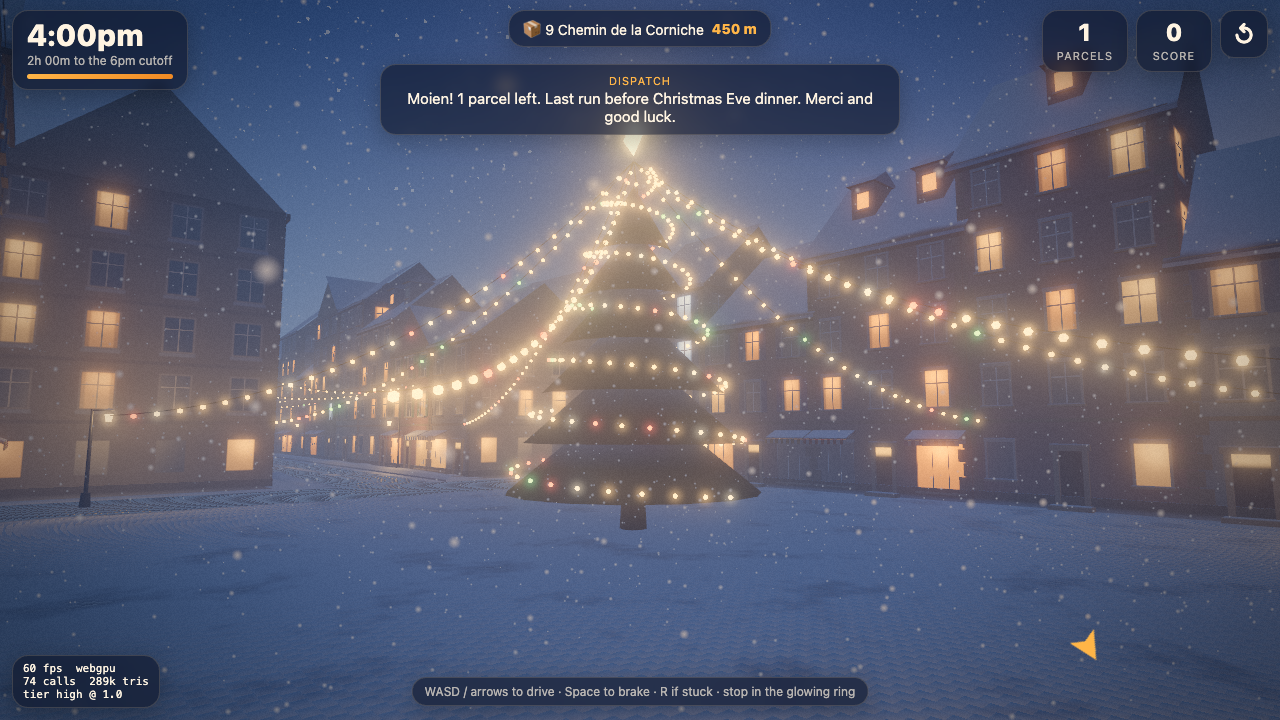
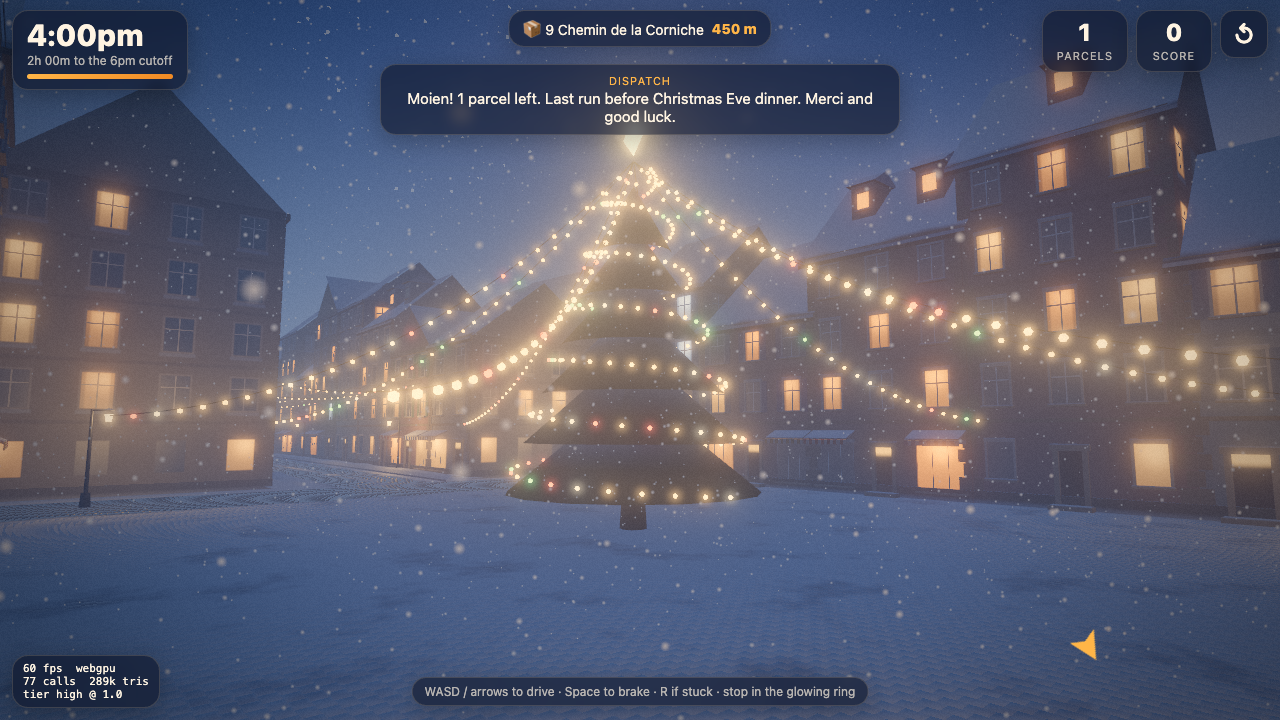
fix: Hôtel de Ville without the invented portico; Gare built as pavilions, wings, arched hall and stone clock tower; bigger Ferris wheel

diff --git a/src/world/landmarks.ts b/src/world/landmarks.ts
@@ -10,7 +10,7 @@ import { box, wallBuilders, wallMeshes } from './buildings';
 import type { Landmark } from './town';
 import { U, fogFactor, lampLight } from '../render/materials';
 import { buildTree } from './props';
-import { landmarkBuildings, lm } from './landmarkBlocks';
+import { GARE_TOWER, landmarkBuildings, lm } from './landmarkBlocks';
 
 type N = any;
 type Rgb = [number, number, number];
@@ -18,8 +18,6 @@ type Rgb = [number, number, number];
 const SANDSTONE: Rgb = [0.66, 0.56, 0.4];
 const GREY_STONE: Rgb = [0.6, 0.58, 0.54];
 const PALE: Rgb = [0.72, 0.62, 0.46];
-/** Floodlit stone reads much brighter than the walls around it, so the tower is darker. */
-const TOWER: Rgb = [0.5, 0.42, 0.3];
 const CREAM: Rgb = [0.9, 0.86, 0.74];
 const SLATE: Rgb = [0.09, 0.095, 0.11];
 const COPPER: Rgb = [0.16, 0.36, 0.3];
@@ -162,30 +160,19 @@ export function buildLandmarkExtras(): THREE.Group {
     }
   }
 
-  // --- Hôtel de Ville: wide front staircase up to a columned portico, two green bronze lions, chimneys, lanterns.
+  // --- Hôtel de Ville: wide front steps, two green bronze lions, roof balustrade and flag, chimneys, lanterns.
   {
     const l = lm('hotelDeVille');
     const { P, M } = frame(l);
     const b = landmarkBuildings().find((x) => x.x === l.x && x.z === l.z)!;
     const d = b.depth / 2;
     const H = b.height;
-    // Portico: six tall columns two floors high, entablature and a balustraded terrace on top.
-    const pd = 3.2; // depth of the portico in front of the wall
+    // Wide front steps straight up to the doors (no portico: the real facade is flat).
+    const pd = 0;
     for (let i = 0; i < 4; i++) {
-      const out = pd + (4 - i) * 0.45;
-      box(stone.walls, stone.roofs, P, 0, -d - out / 2, 11 - i * 0.3, out / 2, 0, 0.15 * (i + 1), CREAM, 0.21);
+      const out = (4 - i) * 0.45;
+      box(stone.walls, stone.roofs, P, 0, -d - out / 2, 9 - i * 0.3, out / 2, 0, 0.15 * (i + 1), CREAM, 0.21);
     }
-    for (let i = 0; i < 6; i++) {
-      const x = -8.75 + i * 3.5;
-      column(stone.walls, P, x, -d - pd + 0.6, 0.55, 0.6, 9.4, 10, CREAM);
-      box(stone.walls, stone.roofs, P, x, -d - pd + 0.6, 0.75, 0.75, 0.6, 1.1, CREAM, 0.21); // base
-      box(stone.walls, stone.roofs, P, x, -d - pd + 0.6, 0.8, 0.8, 9.2, 9.6, CREAM, 0.21); // capital
-    }
-    box(stone.walls, stone.roofs, P, 0, -d - pd / 2 + 0.1, 10.2, pd / 2 + 0.2, 9.6, 11, CREAM, 0.21); // entablature
-    for (let x = -9.8; x <= 9.8; x += 0.7) box(stone.walls, stone.roofs, P, x, -d - pd + 0.25, 0.1, 0.1, 11, 11.9, CREAM, 0.21); // balusters
-    box(stone.walls, stone.roofs, P, 0, -d - pd + 0.25, 10.2, 0.18, 11.9, 12.15, CREAM, 0.21); // rail
-    // Warm light inside the portico, behind the columns.
-    glows.add(M(0, 4.6, -d - 0.04, Math.PI, [14, 8, 1]), [0.5, 0.3, 0.12]);
     // Balustrade and flagpole along the roof line.
     box(stone.walls, stone.roofs, P, 0, -d - 0.1, b.width / 2, 0.2, H, H + 0.9, CREAM, 0.21);
     box(props, props, P, 0, -d + 1, 0.06, 0.06, H, H + 7, IRON, 0.21);
@@ -201,36 +188,35 @@ export function buildLandmarkExtras(): THREE.Group {
     for (let x = -15; x <= 15; x += 6) if (Math.abs(x) > 10) glows.add(M(x, 2.8, -d - 0.25, Math.PI, [0.35, 0.5, 1]), [3, 1.6, 0.6]);
   }
 
-  // --- Gare: a tall clock tower on the east front corner with a floodlit copper cupola,
-  // end pavilions with steep copper roofs, and the big arched glass window of the hall.
+  // --- Gare: copper cupola and lit clock faces on the stone tower, the arched glass of the hall, lit doors.
   {
     const l = lm('gare');
     const { P, M } = frame(l);
-    const b = landmarkBuildings().find((x) => x.x === l.x && x.z === l.z)!;
-    const w = b.width / 2;
-    const d = b.depth / 2;
-    const H = b.height;
-    const tx = 18;
-    const tz = -d + 2.4;
-    column(flood, P, tx, tz, 4.6, 0, 40, 4, TOWER);
-    box(flood, flood, P, tx, tz, 3.7, 3.7, 40, 41.2, TOWER, 0.83); // cornice
-    column(flood, P, tx, tz, 3.6, 41.2, 46, 8, COPPER);
-    column(flood, P, tx, tz, 2.7, 46, 50, 8, COPPER);
-    column(flood, P, tx, tz, 1.5, 50, 53, 8, COPPER);
-    needle(flood, P, tx, tz, 1.6, 53, 60, 8, COPPER);
+    const t = GARE_TOWER;
+    const top = t.height;
+    box(stone.walls, stone.roofs, P, t.x, t.z, t.half + 0.35, t.half + 0.35, top - 0.2, top + 0.9, PALE, 0.83); // cornice
+    column(flood, P, t.x, t.z, 3.9, top + 0.9, top + 6, 8, COPPER);
+    column(flood, P, t.x, t.z, 2.9, top + 6, top + 10, 8, COPPER);
+    column(flood, P, t.x, t.z, 1.6, top + 10, top + 13, 8, COPPER);
+    needle(flood, P, t.x, t.z, 1.7, top + 13, top + 20, 8, COPPER);
     for (let side = 0; side < 4; side++) {
       const a = (side * Math.PI) / 2;
-      glows.add(M(tx + Math.sin(a) * 3.28, 35, tz + Math.cos(a) * 3.28, a, [3.4, 3.4, 1]), [2.6, 2.3, 1.7]);
+      const r = t.half + 0.03;
+      glows.add(M(t.x + Math.sin(a) * r, top - 5, t.z + Math.cos(a) * r, a, [3.6, 3.6, 1]), [2.6, 2.3, 1.7]);
+      // A slit window lower down each face.
+      glows.add(M(t.x + Math.sin(a) * r, top - 15, t.z + Math.cos(a) * r, a, [0.9, 3.2, 1]), [1.4, 0.8, 0.35]);
     }
-    // End pavilions, a little proud of the front, with tall copper roofs.
-    for (const s of [-1, 1]) {
-      const px = s * (w - 4);
-      box(flood, flood, P, px, -0.6, 4.6, d + 0.6, 0, H + 3, PALE, 0.83);
-      needle(flood, P, px, -0.6, 6.4, H + 3, H + 10, 4, COPPER);
+    // Hall front: tall arched window in a stone surround (stepped glass for the arch), lit doors below.
+    const fz = -10.6 - 0.06; // hall front (depth 20.6, centred 0.3 forward)
+    box(stone.walls, stone.roofs, P, 0, fz + 0.2, 6.2, 0.3, 4.2, 4.6, PALE, 0.9); // sill
+    for (let i = 0; i < 6; i++) {
+      const hw = 5 * Math.sqrt(1 - (i / 6) ** 2);
+      glows.add(M(0, 13.2 + i * 0.75, fz, Math.PI, [hw * 2, 0.8, 1]), [1.8, 1.2, 0.55]);
     }
-    // Arched glass gable of the hall, full height, warm.
-    glows.add(M(-6, 7.5, -d - 0.04, Math.PI, [14, 11, 1]), [1.9, 1.25, 0.6]);
-    for (const x of [-20, 6]) glows.add(M(x, 2.2, -d - 0.04, Math.PI, [4.5, 3.6, 1]), [2.2, 1.5, 0.7]); // doors
+    glows.add(M(0, 8.8, fz, Math.PI, [10, 8.8, 1]), [1.8, 1.2, 0.55]);
+    for (let x = -3.75; x <= 3.75; x += 2.5) box(props, props, P, x, fz - 0.05, 0.12, 0.05, 4.6, 18, IRON, 0.9); // mullions
+    box(props, props, P, 0, fz - 0.05, 5, 0.05, 8.7, 8.95, IRON, 0.9); // transom
+    for (const x of [-4, 0, 4]) glows.add(M(x, 1.7, fz, Math.PI, [2.4, 3.2, 1]), [2.2, 1.5, 0.7]);
   }
 
   // --- Gëlle Fra: tall obelisk on a pedestal, the golden figure on top.
@@ -280,9 +266,9 @@ class FerrisWheel {
   private readonly rotor = new THREE.Group();
   private readonly gondolas: THREE.InstancedMesh;
   private readonly m = new THREE.Matrix4();
-  static readonly R = 9;
-  static readonly HUB = 11;
-  static readonly CARS = 16;
+  static readonly R = 15;
+  static readonly HUB = 18; // top at ~33 m, well above the Gëlle Fra (~24 m)
+  static readonly CARS = 20;
   /** Radians per second: one turn in about a minute and a half. */
   static readonly SPEED = 0.07;
 
@@ -293,12 +279,12 @@ class FerrisWheel {
     this.group.rotation.y = l.rot;
     this.group.name = 'ferris-wheel';
 
-    const legs = new THREE.InstancedMesh(new THREE.BoxGeometry(0.3, 0.3, 1), new THREE.MeshStandardNodeMaterial({ color: 0x1a1d24, roughness: 0.6 }), 4);
+    const legs = new THREE.InstancedMesh(new THREE.BoxGeometry(0.45, 0.45, 1), new THREE.MeshStandardNodeMaterial({ color: 0x1a1d24, roughness: 0.6 }), 4);
     let i = 0;
     for (const s of [-1, 1]) {
       for (const k of [-1, 1]) {
-        const foot = v3(s * 1.4, -HUB, k * 5);
-        const top = v3(s * 1.4, 0, 0);
+        const foot = v3(s * 2, -HUB, k * 8);
+        const top = v3(s * 2, 0, 0);
         const len = foot.distanceTo(top);
         const q = new THREE.Quaternion().setFromRotationMatrix(new THREE.Matrix4().lookAt(foot, top, v3(0, 1, 0)));
         legs.setMatrixAt(i++, new THREE.Matrix4().compose(foot.clone().add(top).multiplyScalar(0.5), q, v3(1, 1, len)));
@@ -306,17 +292,17 @@ class FerrisWheel {
     }
     legs.name = 'ferris-legs';
 
-    const ring = new THREE.Mesh(new THREE.TorusGeometry(R, 0.12, 6, 64), new THREE.MeshStandardNodeMaterial({ color: 0xd8d2c4, roughness: 0.5 }));
+    const ring = new THREE.Mesh(new THREE.TorusGeometry(R, 0.2, 6, 96), new THREE.MeshStandardNodeMaterial({ color: 0xd8d2c4, roughness: 0.5 }));
     ring.rotation.y = Math.PI / 2;
     const bulbs = new Glows();
-    const n = 64;
+    const n = 96;
     for (let k = 0; k < n; k++) {
       const a = (k / n) * Math.PI * 2;
       bulbs.add(new THREE.Matrix4().compose(v3(0, Math.sin(a) * R, Math.cos(a) * R), new THREE.Quaternion(), v3(0.34, 0.34, 0.34)), k % 4 === 0 ? [3.4, 0.6, 0.35] : [3.6, 2.3, 1.0]);
     }
     for (let k = 0; k < CARS; k++) {
       const a = (k / CARS) * Math.PI * 2;
-      for (let j = 1; j < 6; j++) bulbs.add(new THREE.Matrix4().compose(v3(0, Math.sin(a) * R * (j / 6), Math.cos(a) * R * (j / 6)), new THREE.Quaternion(), v3(0.18, 0.18, 0.18)), [2.8, 1.8, 0.8]);
+      for (let j = 1; j < 8; j++) bulbs.add(new THREE.Matrix4().compose(v3(0, Math.sin(a) * R * (j / 8), Math.cos(a) * R * (j / 8)), new THREE.Quaternion(), v3(0.18, 0.18, 0.18)), [2.8, 1.8, 0.8]);
     }
     // Glow quads face local +Z; turn them to face out along the axle (±X) so they read from the square.
     const bulbMesh = bulbs.build(new THREE.PlaneGeometry(1, 1).rotateY(Math.PI / 2), 'ferris-bulbs');
@@ -326,7 +312,7 @@ class FerrisWheel {
     const car = new THREE.MeshStandardNodeMaterial({ roughness: 0.6 });
     car.colorNode = vec3(0.5, 0.08, 0.06);
     car.emissiveNode = vec3(0.16, 0.05, 0.02); // lit cabins
-    this.gondolas = new THREE.InstancedMesh(new THREE.BoxGeometry(1.0, 1.2, 1.2), car, CARS);
+    this.gondolas = new THREE.InstancedMesh(new THREE.BoxGeometry(1.5, 1.7, 1.7), car, CARS);
     this.gondolas.name = 'ferris-cars';
     this.gondolas.frustumCulled = false; // it moves; its bounds are the whole wheel anyway
 
@@ -341,7 +327,7 @@ class FerrisWheel {
     for (let k = 0; k < CARS; k++) {
       const a = (k / CARS) * Math.PI * 2 + turn;
       // Hang below the rim point, level whatever the rotor angle.
-      this.m.makeTranslation(0, Math.sin(a) * R - 1.0, Math.cos(a) * R);
+      this.m.makeTranslation(0, Math.sin(a) * R - 1.3, Math.cos(a) * R);
       this.gondolas.setMatrixAt(k, this.m);
     }
     this.gondolas.instanceMatrix.needsUpdate = true;

diff --git a/src/world/landmarkBlocks.ts b/src/world/landmarkBlocks.ts
@@ -29,11 +29,30 @@ export function landmarkBuildings(): Building[] {
     building(lm('cathedral'), { width: 24, depth: 52, height: 15, color: SANDSTONE, ridgeAlong: false, roofPitch: 1.1, plain: true, relief: false }),
     // Five tall floors under a steep slate roof: a head above the old-town houses around it.
     building(lm('palais'), { width: 36, depth: 16, height: 18.6, color: SANDSTONE, roofPitch: 1.2, dormers: 2, seed: 0.62 }),
-    // Wide and pale, four floors behind a columned portico (landmarks.ts).
+    // Wide and pale, four floors, front steps and lions (landmarks.ts).
     building(lm('hotelDeVille'), { width: 38, depth: 16, height: 15.6, color: CREAM, roofPitch: 0.35, seed: 0.21 }),
-    // Long pale station with green copper roofs, end pavilions and the clock tower (landmarks.ts).
-    building(lm('gare'), { width: 60, depth: 20, height: 15.6, color: PALE_STONE, roofPitch: 0.6, dormers: 2, seed: 0.83, roofColor: COPPER_ROOF }),
+    ...gareBlocks(),
     building(lm('neumunster'), { width: 42, depth: 11, height: 9.6, color: GREY_STONE, roofPitch: 0.95, seed: 0.47, dormers: 2, floodlit: false }),
+  ];
+}
+
+/** Gare clock tower, in the station's local frame (front faces local -Z). Shared with landmarks.ts. */
+export const GARE_TOWER = { x: 17.5, z: -8, half: 4, height: 40 };
+
+/**
+ * The station, 60 m long: tall end pavilions with steep copper roofs, two wings,
+ * a central hall with a big arched window (glass added in landmarks.ts), and the
+ * plain stone clock tower standing proud of the front near the east end.
+ */
+function gareBlocks(): Building[] {
+  const l = lm('gare');
+  const at = (dx: number, dz: number, o: Parameters<typeof building>[1]): Building => ({ ...building(l, o), ...toWorld(l, dx, dz) });
+  const base = { color: PALE_STONE, roofColor: COPPER_ROOF };
+  return [
+    ...[-1, 1].map((s, i) => at(s * 25.5, -0.5, { ...base, width: 9, depth: 21, height: 19.6, ridgeAlong: false, roofPitch: 1.3, seed: 0.81 + i * 0.05 })),
+    ...[-1, 1].map((s, i) => at(s * 14.5, 0, { ...base, width: 13, depth: 20, height: 15.6, roofPitch: 0.6, dormers: 2, seed: 0.71 + i * 0.05 })),
+    at(0, -0.3, { ...base, width: 16, depth: 20.6, height: 19.6, ridgeAlong: false, roofPitch: 0.55, plain: true, relief: false, seed: 0.9 }),
+    at(GARE_TOWER.x, GARE_TOWER.z, { ...base, width: GARE_TOWER.half * 2, depth: GARE_TOWER.half * 2, height: GARE_TOWER.height, roofPitch: 0.05, plain: true, relief: false, seed: 0.93 }),
   ];
 }
 
@@ -52,24 +71,20 @@ function toWorld(l: Landmark, x: number, z: number): { x: number; z: number } {
   return { x: l.x + x * c + z * s, z: l.z - x * s + z * c };
 }
 
-/** Extra colliders for pieces outside the main blocks (monument, wheel, tree, portico, tower). */
+/** Extra colliders for pieces outside the main blocks (monument, wheel, tree, lions). */
 export function landmarkColliders(): { x: number; y: number; z: number; radius: number; height: number }[] {
   const g = lm('gelleFra');
   const w = lm('ferrisWheel');
   const t = lm('tree');
   const out = [
     { x: g.x, y: g.y, z: g.z, radius: 2.2, height: 22 },
-    { x: w.x, y: w.y, z: w.z, radius: 3, height: 20 },
+    { x: w.x, y: w.y, z: w.z, radius: 3, height: 34 },
     { x: t.x, y: t.y, z: t.z, radius: 2.4, height: 6 },
   ];
-  // Hôtel de Ville portico columns and lion plinths, out in Place Guillaume II (see landmarks.ts).
+  // Hôtel de Ville lion plinths, out in Place Guillaume II (see landmarks.ts).
   const h = lm('hotelDeVille');
   const d = 8;
-  const pd = 3.2;
-  for (let i = 0; i < 6; i++) out.push({ ...toWorld(h, -8.75 + i * 3.5, -d - pd + 0.6), y: h.y, radius: 0.75, height: 10 });
+  const pd = 0;
   for (const s of [-1, 1]) out.push({ ...toWorld(h, s * 12.5, -d - pd - 1.6), y: h.y, radius: 1.5, height: 3 });
-  // Gare clock tower, standing slightly proud of the front.
-  const gare = lm('gare');
-  out.push({ ...toWorld(gare, 18, -10 + 2.4), y: gare.y, radius: 3.4, height: 40 });
   return out;
 }
